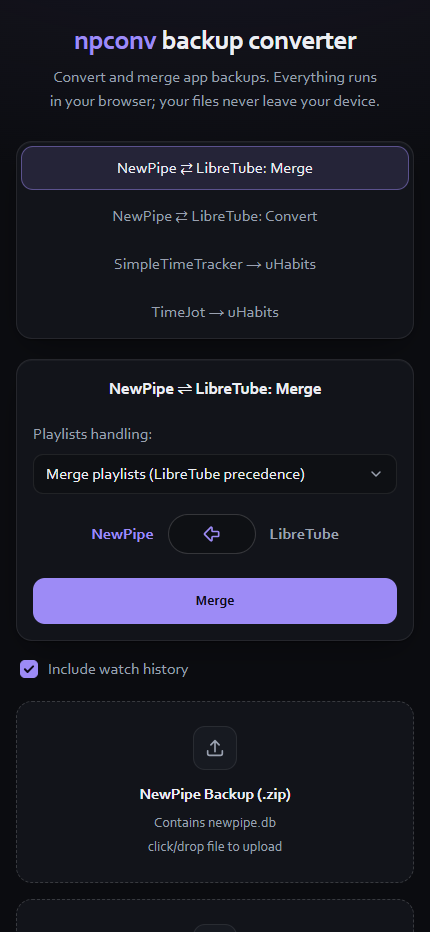
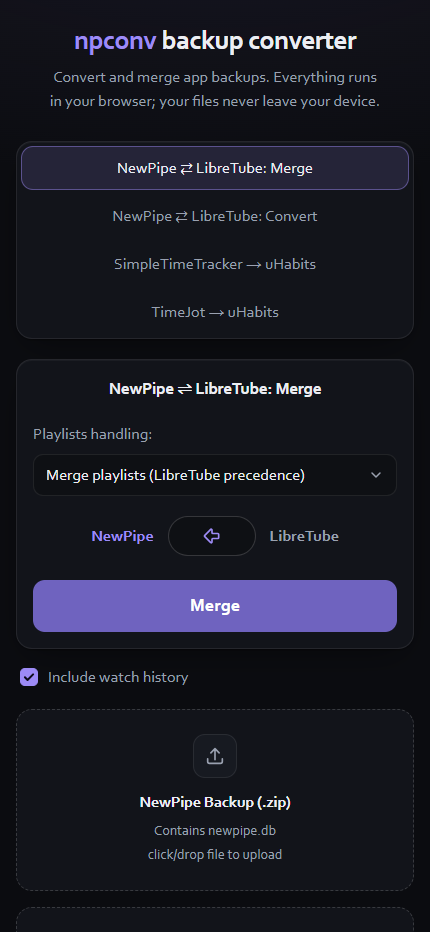
Enlarge primary buttons, soften their color, unify control heights
- Primary buttons: 18px bold text, 52px tall, deeper and less saturated
  violet with white text (new --btn tokens replace --primary-hover/press)
- On phones the buttons now keep the large text and stack when two do not
  fit side by side, instead of shrinking to 14px
- Add --control-h (42px) and use it for selects, number inputs and the
  remove/clear X buttons so they line up
- Drop dead .min-duration-input declarations that were always overridden
- Refresh README screenshots

diff --git a/style.css b/style.css
@@ -17,9 +17,11 @@
 	--text-faint: #7a8191;
 
 	--primary: #9d8bf6;
-	--primary-hover: #b2a4fa;
-	--primary-press: #8a76ee;
-	--on-primary: #0d0b1a;
+	/* Primary action buttons use a deeper, calmer violet than the accent */
+	--btn: #6f63bf;
+	--btn-hover: #7d72cc;
+	--btn-press: #6256ae;
+	--on-btn: #fff;
 	--secondary: #2dd4bf;
 	--error: #f08a9b;
 	--warn: #f2c46d;
@@ -32,6 +34,7 @@
 	--radius-lg: 16px;
 
 	--pad-card: 24px;
+	--control-h: 42px;
 
 	--shadow-card:
 		inset 0 1px 0 rgb(255 255 255 / 0.04),
@@ -202,7 +205,7 @@ h1 .brand { color: var(--primary); }
 /* Form controls */
 select,
 input[type="number"] {
-	min-height: 40px;
+	min-height: var(--control-h);
 	padding: 0 12px;
 	font: inherit;
 	color: var(--text);
@@ -308,21 +311,22 @@ button:disabled { cursor: not-allowed; }
 }
 
 .controls button {
-	min-width: 9.5rem;
-	min-height: 46px;
-	padding: 0 28px;
-	color: var(--on-primary);
-	font-weight: 600;
-	letter-spacing: 0.005em;
-	background: var(--primary);
+	min-width: 11rem;
+	min-height: 52px;
+	padding: 0 32px;
+	color: var(--on-btn);
+	font-size: 1.125rem;
+	font-weight: 700;
+	letter-spacing: 0.01em;
+	background: var(--btn);
 	border-radius: var(--radius);
 	transition: background-color 0.15s, transform 0.1s;
 }
 
-.controls button:hover:not(:disabled) { background: var(--primary-hover); }
+.controls button:hover:not(:disabled) { background: var(--btn-hover); }
 
 .controls button:active:not(:disabled) {
-	background: var(--primary-press);
+	background: var(--btn-press);
 	transform: translateY(1px);
 }
 
@@ -331,13 +335,12 @@ button:disabled { cursor: not-allowed; }
 	background: var(--surface-3);
 }
 
+/* On phones buttons fill the row, and wrap onto their own rows when two
+   don't fit side by side, so the text can stay large */
 @media (width < 40rem) {
-	.controls { flex-wrap: nowrap; gap: 8px; }
 	.controls button {
-		flex: 1;
-		min-width: 0;
-		padding: 0 8px;
-		font-size: 0.875rem;
+		flex: 1 1 12rem;
+		padding: 0 16px;
 	}
 }
 
@@ -346,8 +349,8 @@ button:disabled { cursor: not-allowed; }
 	display: flex;
 	align-items: center;
 	justify-content: center;
-	width: 2.25rem;
-	height: 2.25rem;
+	width: var(--control-h);
+	height: var(--control-h);
 	color: var(--text-muted);
 	background: var(--surface-3);
 	border: 1px solid var(--border);
@@ -640,7 +643,6 @@ input[type="file"] {
 .uhabits-habit-select {
 	width: 100%;
 	min-width: 0;
-	min-height: 42px;
 }
 
 .mapping-arrow {
@@ -675,9 +677,6 @@ input[type="file"] {
 
 .min-duration-input {
 	width: 4.25rem;
-	min-height: 34px;
-	padding: 0 8px;
-	font-size: 0.875rem;
 	text-align: center;
 }
 
@@ -716,7 +715,6 @@ input[type="file"] {
 
 @media (width < 40rem) {
 	.mapping-options { flex-direction: column; align-items: flex-start; gap: 14px; }
-	.min-duration-input { min-height: 40px; }
 }
 
 /* Activity grid preview */
